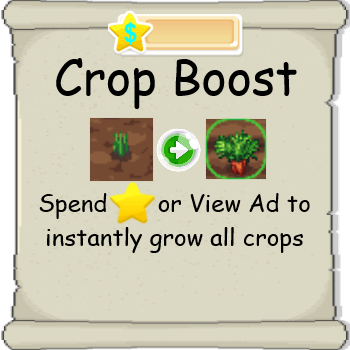
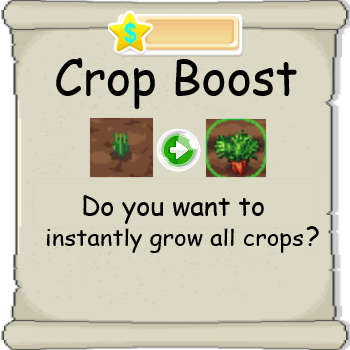
Build Ad Free version with updates

Changed region(s): [[0.1143, 0.4857, 0.8, 0.6571], [0.8286, 0.5429, 0.9143, 0.7143], [0.6, 0.4857, 0.7714, 0.5143]]

diff --git a/www/farming_NewMenu.js b/www/farming_NewMenu.js
@@ -2512,7 +2512,7 @@ farming.start = function () {
      boostCrops.appendChild(starCashCountBoost);
 	var speedAdConfirm =(new lime.GlossyButton).setColor("#00FF00").setText("View").setPosition(48, 163).setSize(60, 32);
     boostCrops.appendChild(speedAdConfirm);
-
+    speedAdConfirm.setHidden(true);
     var speedAdConfirmSC = (new lime.GlossyButton).setColor("#00FF00").setText("-       ").setPosition(152, 163).setSize(60, 32);
     boostCrops.appendChild(speedAdConfirmSC);
     var starCashBoost = (new lime.Sprite).setAnchorPoint(0, 0).setPosition(-5, -17).setSize(35, 35).setFill("images/UI/plus3StarCash.png");

diff --git a/www/index.html b/www/index.html
@@ -353,6 +353,9 @@
                 z-index: 15000;
             }
         }
+        #currentStarCashBack3{
+            display:none;
+        }
     </style>
 
 
@@ -473,7 +476,7 @@ var onceOnlyAd = 0;
 //        else {showItOrNo = 1;}
 //    }
 
-var tid2 = setInterval(interPop2, 500);
+//var tid2 = setInterval(interPop2, 500);
 
 function interPop2() {
     showItOrNo2 = localStorage.getItem('MedFarm_LoadAd');
